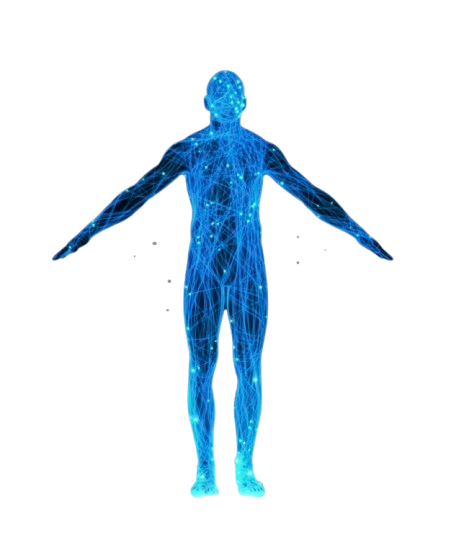
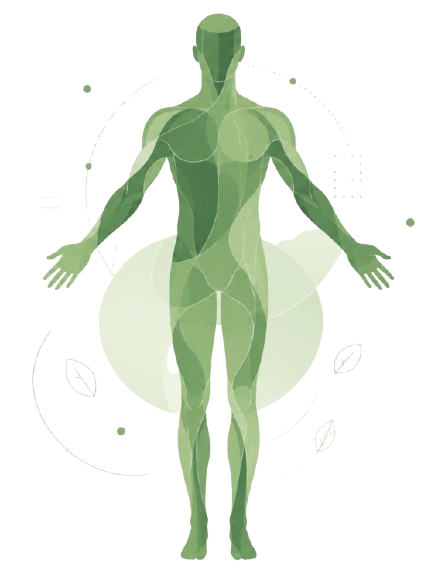
Cuarto Commit - Terminación IMC Adultos

diff --git a/src/index.css b/src/index.css
@@ -21,7 +21,7 @@
     --border: #c0bdbd;
     --text: #1F1D1C; 
     --muted: #405641;
-    --accent: #59794f;
+    --accent: #4F6F52;
     --accent-dim: rgba(208, 205, 199, 0.214);
     --mono: 'LXGW Marker Gothic', monospace;
     --serif: 'Overlock', serif;
@@ -284,6 +284,116 @@ button:active {
     gap: 10px; 
     margin-bottom: 10px;
 }
+
+/* RESULTADO */
+.resultado-container {
+  display: flex;
+  align-items: flex-start;
+  justify-content: space-between;
+  min-height: 100vh;
+  padding: 6rem 4rem 2rem;
+  gap: 3rem;
+}
+
+.resultado-info {
+  flex: 1;
+  display: flex;
+  flex-direction: column;
+  gap: 1.5rem;
+}
+
+.resultado-info h2 {
+  font-family: var(--serif);
+  font-size: 2.5rem;
+  color: var(--text);
+}
+
+.imc-numero {
+  font-family: var(--serif);
+  font-size: 6rem;
+  font-weight: 700;
+  line-height: 1;
+}
+
+.imc-categoria {
+  border-left: 4px solid;
+  padding-left: 1rem;
+}
+
+.categoria-label {
+  font-size: 0.8rem;
+  text-transform: uppercase;
+  letter-spacing: 0.1em;
+  color: var(--muted);
+}
+
+.categoria-texto {
+  font-family: var(--serif);
+  font-size: 1.8rem;
+  font-weight: 600;
+}
+
+.imc-escala {
+  display: flex;
+  flex-direction: column;
+  gap: 0.4rem;
+  background: var(--surface);
+  padding: 1.25rem;
+  border: 1px solid var(--border);
+}
+
+.escala-item {
+  font-size: 0.85rem;
+  font-weight: 500;
+}
+
+.boton-volver {
+  background: var(--accent);
+  color: white;
+  border: none;
+  padding: 0.85rem 2rem;
+  font-family: var(--sans);
+  font-size: 0.95rem;
+  cursor: pointer;
+  width: fit-content;
+  transition: opacity 0.2s;
+}
+
+.boton-volver:hover { opacity: 0.85; }
+
+.resultado-svg {
+  flex: 1;
+  display: flex;
+  justify-content: center;
+  align-items: center;
+  min-height: 400px;
+}
+
+@media (max-width: 768px) {
+  .resultado-container {
+    flex-direction: column;
+    padding: 6rem 1.5rem 2rem;
+    align-items: center;
+  }
+
+  .imc-numero { font-size: 4rem; }
+}
+
+.cuerpo-container {
+  display: flex;
+  justify-content: center;
+  align-items: center;
+  height: 100%;
+}
+
+.cuerpo-imagen {
+  max-height: 450px;
+  width: auto;
+  object-fit: contain;
+  transition: all 0.5s ease;
+  filter: drop-shadow(0 4px 20px rgba(0,0,0,0.15));
+}
+
 /* HAMBURGUESA */ 
 .hamburguesa {
   display: none;

diff --git a/src/components/Resultado.jsx b/src/components/Resultado.jsx
@@ -1,0 +1,68 @@
+import { useLocation, useNavigate } from 'react-router-dom'
+import CuerpoHumano from './CuerpoHumano'
+
+function Resultado() {
+  const location = useLocation()
+  const navigate = useNavigate()
+  const { imc, tipo, genero } = location.state || {}
+
+  function getCategoria(imc) {
+    if (imc < 18.5) return { texto: 'Bajo peso', color: '#6E8FC9' }
+    if (imc < 25) return { texto: 'Peso normal', color: '#59794f' }
+    if (imc < 30) return { texto: 'Sobrepeso', color: '#C9A96E' }
+    if (imc < 35) return { texto: 'Obesidad grado I', color: '#C97A6E' }
+    return { texto: 'Obesidad grado II', color: '#C94E4E' }
+  }
+
+  const categoria = getCategoria(parseFloat(imc))
+
+  return (
+    <div className="resultado-container">
+      <div className="resultado-info">
+        <h2>Tu resultado</h2>
+
+        <div className="imc-numero" style={{ color: categoria.color }}>
+          {imc}
+        </div>
+
+        <div className="imc-categoria" style={{ borderColor: categoria.color }}>
+          <p className="categoria-label">Categoría</p>
+          <p className="categoria-texto" style={{ color: categoria.color }}>
+            {categoria.texto}
+          </p>
+        </div>
+
+        <div className="imc-escala">
+          <div className="escala-item" style={{ color: '#6E8FC9' }}>
+            &lt; 18.5 — Bajo peso
+          </div>
+          <div className="escala-item" style={{ color: '#59794f' }}>
+            18.5 – 24.9 — Peso normal
+          </div>
+          <div className="escala-item" style={{ color: '#C9A96E' }}>
+            25 – 29.9 — Sobrepeso
+          </div>
+          <div className="escala-item" style={{ color: '#C97A6E' }}>
+            30 – 34.9 — Obesidad grado I
+          </div>
+          <div className="escala-item" style={{ color: '#C94E4E' }}>
+            ≥ 35 — Obesidad grado II
+          </div>
+        </div>
+
+        <button
+          className="boton-volver"
+          onClick={() => navigate(tipo === 'adulto' ? '/adultos' : '/menores')}
+        >
+          Calcular de nuevo
+        </button>
+      </div>
+
+      <div className="resultado-svg">
+        <CuerpoHumano imc={parseFloat(imc)} genero={genero} />
+      </div>
+    </div>
+  )
+}
+
+export default Resultado

diff --git a/src/components/CuerpoHumano.jsx b/src/components/CuerpoHumano.jsx
@@ -1,0 +1,38 @@
+import mujerBajoPeso from '../assets/mujer-bajo-peso.png'
+import mujerNormal from '../assets/mujer-normal.png'
+import mujerSobrepeso from '../assets/mujer-sobrepeso.png'
+import mujerObesidad1 from '../assets/mujer-obesidad-1.png'
+import mujerObesidad2 from '../assets/mujer-obesidad-2.png'
+
+import hombreBajoPeso from '../assets/hombre-bajo-peso.png'
+import hombreNormal from '../assets/hombre-normal.png'
+import hombreSobrepeso from '../assets/hombre-sobrepeso.png'
+import hombreObesidad1 from '../assets/hombre-obesidad-1.png'
+import hombreObesidad2 from '../assets/hombre-obesidad-2.png'
+
+function CuerpoHumano({ imc, genero }) {
+
+  function getImagen(imc, genero) {
+    const esMujer = genero === 'femenino'
+
+    if (imc < 18.5) return esMujer ? mujerBajoPeso : hombreBajoPeso
+    if (imc < 25)   return esMujer ? mujerNormal : hombreNormal
+    if (imc < 30)   return esMujer ? mujerSobrepeso : hombreSobrepeso
+    if (imc < 35)   return esMujer ? mujerObesidad1 : hombreObesidad1
+    return           esMujer ? mujerObesidad2 : hombreObesidad2
+  }
+
+  const imagen = getImagen(imc, genero)
+
+  return (
+    <div className="cuerpo-container">
+      <img
+        src={imagen}
+        alt={`Figura corporal - ${genero}`}
+        className="cuerpo-imagen"
+      />
+    </div>
+  )
+}
+
+export default CuerpoHumano

diff --git a/src/App.jsx b/src/App.jsx
@@ -2,6 +2,7 @@ import { Routes, Route } from 'react-router-dom'
 import Navbar from './components/Navbar'
 import Home from './components/Home'
 import FormularioAdultos from './components/FormularioAdultos'
+import Resultado from './components/Resultado'
 import './index.css'
 
 function App() {
@@ -11,6 +12,7 @@ function App() {
       <Routes>
         <Route path="/" element={<Home />} />
         <Route path="/adultos" element={<FormularioAdultos/>}/>
+        <Route path="/resultado" element={<Resultado/>}/>
       </Routes>
     </div>
   )